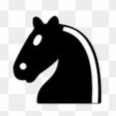
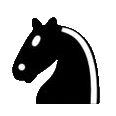
transparent background on images

Changed region(s): [[0.1034, 0.1293, 0.9052, 0.9052], [0.1552, 0.5172, 0.2328, 0.6207]]

diff --git a/ChessPanel.java b/ChessPanel.java
@@ -1,0 +1,61 @@
+import javax.swing.JPanel;
+import java.awt.Graphics;
+import java.awt.Image;
+import java.awt.Color;
+import java.awt.Dimension;
+
+public class ChessPanel extends JPanel {
+
+    private Board board;
+    private static final int TILE_SIZE = 64;
+
+    public ChessPanel(Board board) {
+        this.board = board;
+        setPreferredSize(new Dimension(8 * TILE_SIZE, 8 * TILE_SIZE));
+    }
+
+    @Override
+    protected void paintComponent(Graphics g) {
+        super.paintComponent(g);
+        drawBoard(g);
+        drawPieces(g);
+        
+    }
+
+    private void drawBoard(Graphics g) {
+        boolean light = true;
+
+        for(int row = 0; row < 8; row++) {
+            for(int col = 0; col < 8; col++) {
+                g.setColor(light ? Color.WHITE : Color.DARK_GRAY);
+                g.fillRect(col * TILE_SIZE, row * TILE_SIZE, TILE_SIZE, TILE_SIZE);
+                light = !light;
+            }
+            light = !light;
+        }
+    }
+
+    private void drawPieces(Graphics g) {
+        for(int row = 0; row < 8; row++) {
+            for(int col = 0; col < 8; col++) {
+                Piece piece = board.pieceThere(row, col);
+                if(piece != null) {
+                    String key = piece.color + "_" + piece.type;
+                    System.out.println(piece.color);
+                    System.out.println(piece.type);
+                    if(ImageStorage.get(key) == null) {
+                        System.out.println("Didn't get image");
+                    }
+                    g.drawImage(
+                        ImageStorage.get(key),
+                        col * TILE_SIZE,
+                        row * TILE_SIZE,
+                        TILE_SIZE,
+                        TILE_SIZE,
+                        null
+                    );
+                }
+            }
+        }
+    }
+}

diff --git a/Main.java b/Main.java
@@ -5,28 +5,17 @@ import javax.swing.SwingUtilities;
 
 public class Main {
     public static void main(String[] args) {
-        /* 
-        SwingUtilities.invokeLater(() -> {
-            JFrame frame = new JFrame("Chess Board");
-            frame.setDefaultCloseOperation(JFrame.EXIT_ON_CLOSE);
+        Board board = new Board();
+        board.createBoard();
 
-            Game gamePanel = new Game();
-            frame.add(gamePanel);
+        JFrame frame = new JFrame("Chess");
+        frame.setDefaultCloseOperation(JFrame.EXIT_ON_CLOSE);
 
-            frame.pack();
-            frame.setLocationRelativeTo(null);
-            frame.setVisible(true);
-        });
-        */
-       Board board = new Board();
-       board.createBoard();
-       Piece piece = board.pieceThere(0, 4);
-       if(piece instanceof King) {
-        System.out.println("Hello");
-       }
-       ArrayList<Move> moves = piece.getPseudoLegalMoves(board, new Position(0, 4));
-       for(Move m : moves) {
-        System.out.println(m);
-       }
+        ChessPanel panel = new ChessPanel(board);
+        frame.add(panel);
+
+        frame.pack();
+        frame.setResizable(false);
+        frame.setVisible(true);
     }
 }

diff --git a/ImageStorage.java b/ImageStorage.java
@@ -1,0 +1,33 @@
+import java.awt.Image;
+import java.util.HashMap;
+import javax.swing.ImageIcon;
+
+public class ImageStorage {
+
+    private static final HashMap<String, Image> images = new HashMap<>();
+
+    static {
+        load("white_pawn");
+        load("white_rook");
+        load("white_knight");
+        load("white_bishop");
+        load("white_queen");
+        load("white_king");
+
+        load("black_pawn");
+        load("black_rook");
+        load("black_knight");
+        load("black_bishop");
+        load("black_queen");
+        load("black_king");
+    }
+
+    private static void load(String key) {
+        Image img = new ImageIcon("images/" + key + ".png").getImage();
+        images.put(key, img);
+    }
+
+    public static Image get(String key) {
+        return images.get(key);
+    }
+}

diff --git a/Piece.java b/Piece.java
@@ -2,14 +2,13 @@ import java.util.ArrayList;
 
 public abstract class Piece {
     public String color;
+    public String type;
 
-    public Piece(String color) {
+    public Piece(String color,String type) {
         this.color = color;
+        this.type = type;
     }
 
-    public String getColor() {
-        return color;
-    }
 
     public abstract ArrayList<Move> getPseudoLegalMoves(Board board, Position from);
 }

diff --git a/Temp.java b/Temp.java
@@ -1,0 +1,12 @@
+import java.awt.image.BufferedImage;
+import java.io.File;
+import java.io.IOException;
+
+import javax.imageio.ImageIO;
+
+public class Temp {
+    public static void main(String[] args) throws IOException {
+        BufferedImage img = ImageIO.read(new File("Images/white_queen.png"));
+        System.out.println(img.getColorModel().hasAlpha());
+    }
+}

diff --git a/Bishop.java b/Bishop.java
@@ -4,8 +4,7 @@ public class Bishop extends Piece{
     String type;
 
     public Bishop(String color) {
-        super(color);
-        this.type = "bishop";
+        super(color, "bishop");
     }
 
     public ArrayList<Move> getPseudoLegalMoves(Board board, Position from) {

diff --git a/Knight.java b/Knight.java
@@ -4,8 +4,7 @@ public class Knight extends Piece{
     String type;
 
     public Knight(String color) {
-        super(color);
-        this.type = "knight";
+        super(color, "knight");
     }
 
     public ArrayList<Move> getPseudoLegalMoves(Board board, Position from) {

diff --git a/Pawn.java b/Pawn.java
@@ -4,8 +4,7 @@ public class Pawn extends Piece{
     public String type;
 
     public Pawn(String color) {
-        super(color);
-        this.type = "pawn";
+        super(color, "pawn");
     }
 
     public ArrayList<Move> getPseudoLegalMoves(Board board, Position from) {

diff --git a/Queen.java b/Queen.java
@@ -4,8 +4,7 @@ public class Queen extends Piece{
     String type;
 
     public Queen(String color) {
-        super(color);
-        this.type = "queen";
+        super(color, "queen");
     }
 
     public ArrayList<Move> getPseudoLegalMoves(Board board, Position from) {

diff --git a/King.java b/King.java
@@ -4,8 +4,7 @@ public class King extends Piece{
     String type;
 
     public King(String color) {
-        super(color);
-        this.type = "king";
+        super(color, "king");
     }
 
     public ArrayList<Move> getPseudoLegalMoves(Board board, Position from) {

diff --git a/Rook.java b/Rook.java
@@ -4,8 +4,7 @@ public class Rook extends Piece{
     String type;
 
     public Rook(String color) {
-        super(color);
-        this.type = "rook";
+        super(color, "rook");
     }
 
     public ArrayList<Move> getPseudoLegalMoves(Board board, Position from) {
